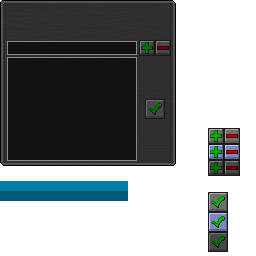
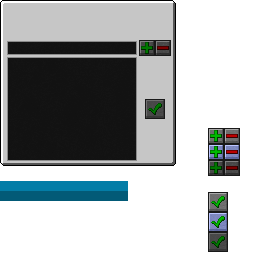
Revert "Make warp gem GUI darkish"
This reverts commit 3114889f9f94112e4a7c474cb3fc043a27db2c0c.

Changed region(s): [[0.0, 0.0, 0.6875, 0.6562]]

diff --git a/java/enderamm/item/GUIContainerWarpGem.java b/java/enderamm/item/GUIContainerWarpGem.java
@@ -179,8 +179,18 @@ public class GUIContainerWarpGem extends GuiContainer {
         int yStartGUI = (this.height - this.ySize) / 2;
         Point mp = new Point(x - xStartGUI, y - yStartGUI);
         FMLClientHandler.instance().getClient().renderEngine.bindTexture(GUI_LOCATION);
-        int xC = 8;
-        int yC = 58;
+        int xC = 10;
+        int yC = 60;
+        if (curSel != null) {
+            xC = 10;
+            yC = 60;
+            int index = ItemWarpGem.getAllPoints(getStack()).indexOf(curSel) + 1;
+            yC += index * fontRendererObj.FONT_HEIGHT;
+            drawTexturedModalRect(xStartGUI + xC, yStartGUI + yC, 0, 191, 128, fontRendererObj.FONT_HEIGHT);
+        }
+
+        xC = 10;
+        yC = 60;
         List<ItemWarpGem.WarpPoint> list = ItemWarpGem.getAllPoints(getStack());
 
         Rectangle area = new Rectangle(10, 60, 130, 100);
@@ -190,20 +200,6 @@ public class GUIContainerWarpGem extends GuiContainer {
             if (itemID < list.size()) {
                 drawTexturedModalRect(xStartGUI + xC, yStartGUI + yC + itemID * fontRendererObj.FONT_HEIGHT, 0, 181, 128, fontRendererObj.FONT_HEIGHT);
             }
-        }
-        xC = 8;
-        yC = 58;
-        if (curSel != null) {
-            int index = 0;
-            for (int i = 0; i < list.size(); i++) {
-                ItemWarpGem.WarpPoint wp = list.get(i);
-                if (wp.name.equalsIgnoreCase(curSel.name)) {
-                    index = i;
-                    break;
-                }
-            }
-            yC += index * fontRendererObj.FONT_HEIGHT;
-            drawTexturedModalRect(xStartGUI + xC, yStartGUI + yC, 0, 191, 128, fontRendererObj.FONT_HEIGHT);
         }
 
         if (addButtonEnabled) {
